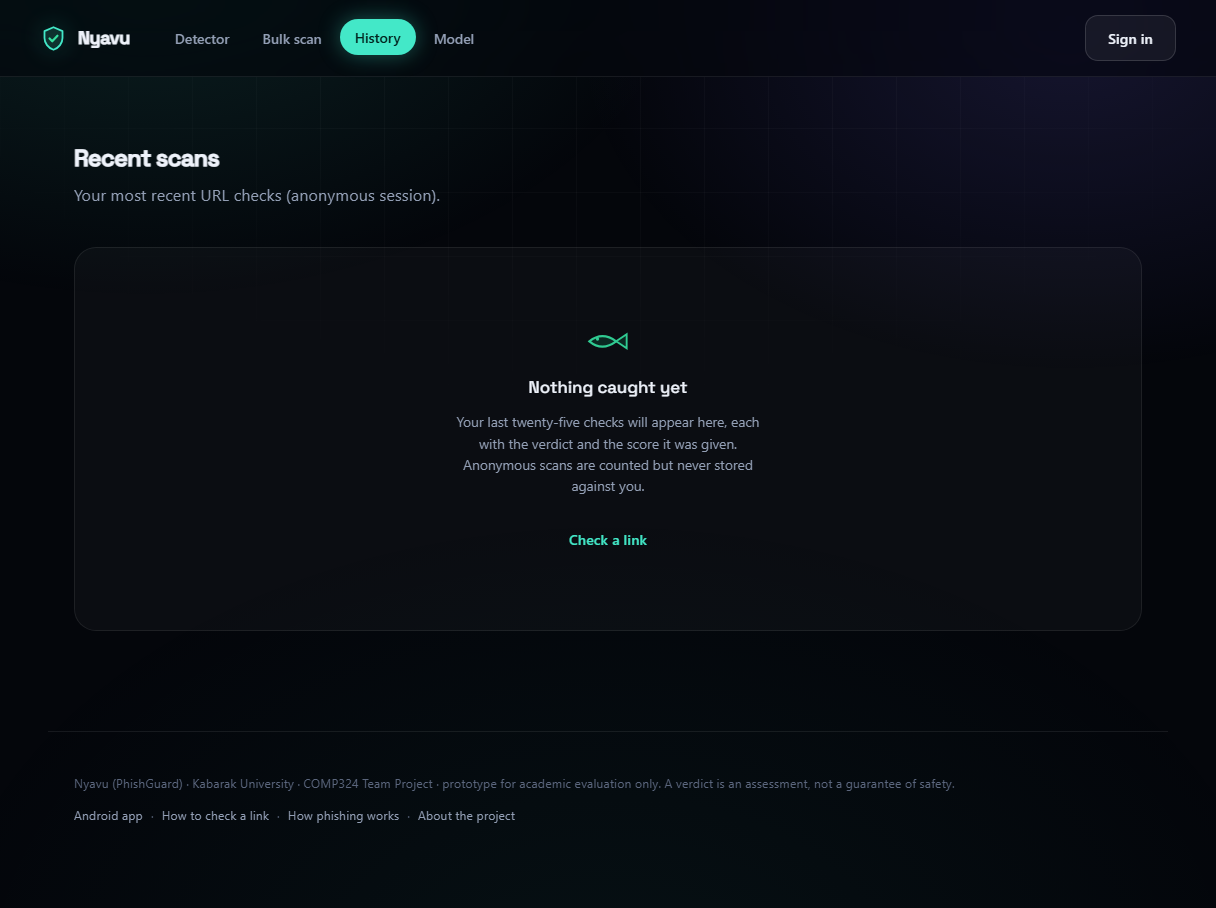
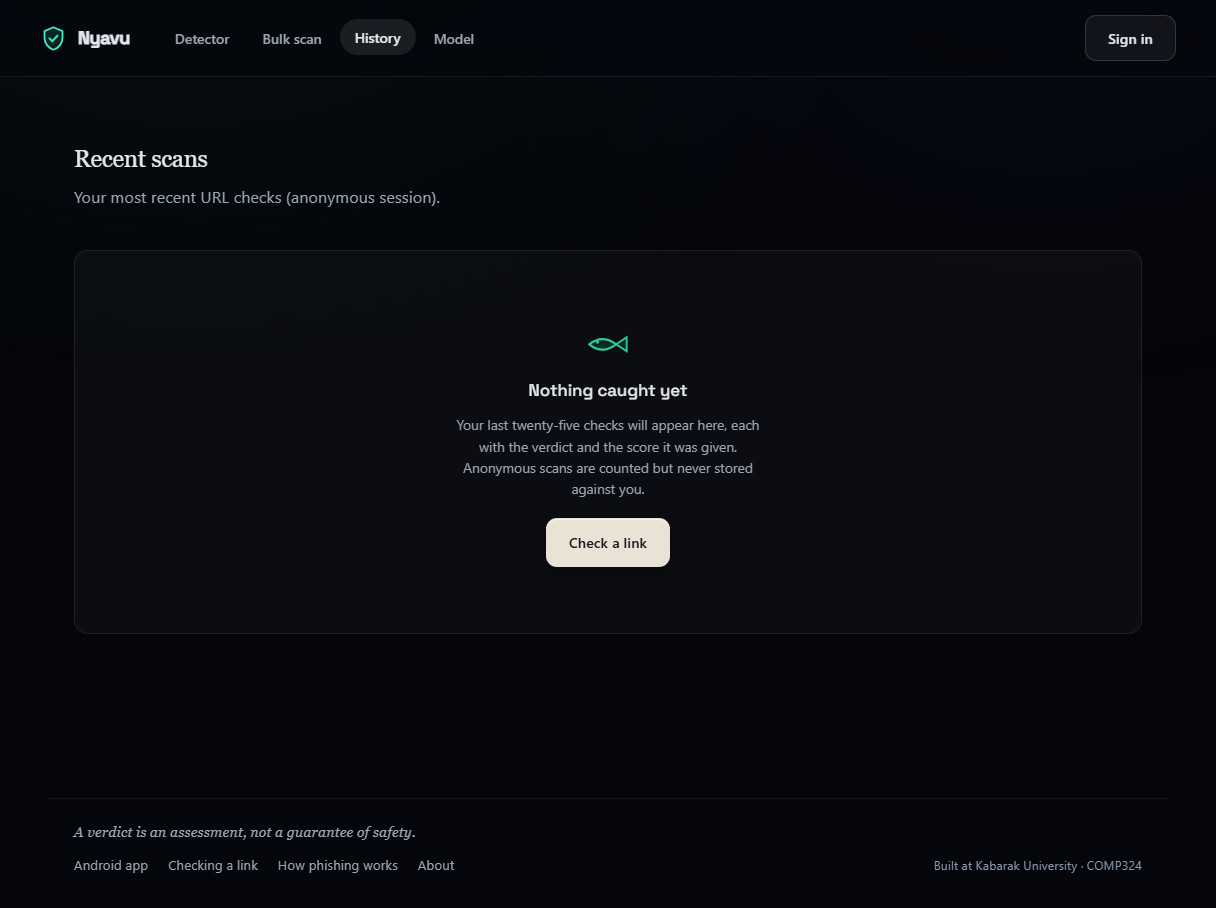
The scene's URL, the model view, and figures set as figures
- the address above the scene was the last element still in the mono; it uses the body
  face now
- the hero's folio said 01, which implied a sequence that does not exist next to steps
  that also start at 01. It is a note, and now says so
- the model view is in the same voice as the page: the summary strip is a rule-bounded
  list instead of a boxed bar, the F1 bars are bone rather than mint, table headings are
  sentence case, and the section labels lost their mono capitals
- table figures use lining tabular numbers; the serif keeps them only where it earns its
  keep, which is the big counts on the home page

diff --git a/app/static/styles.css b/app/static/styles.css
@@ -5056,3 +5056,178 @@ code, kbd, samp {
 }
 
 .input-row .btn.icon:hover { background: rgba(10, 18, 25, .11) !important; }
+
+/* the address above the scene was the last thing still set in the mono */
+.verdict-url {
+  font-family: var(--font-body) !important;
+  font-size: 0.95rem !important;
+  letter-spacing: 0 !important;
+  color: var(--muted) !important;
+}
+
+.note-label {
+  display: block;
+  margin-bottom: 10px;
+  font-family: var(--font-serif);
+  font-style: italic;
+  font-size: 0.82rem;
+  letter-spacing: 0;
+  color: var(--faint);
+}
+
+/* section labels inside the verdict follow the page, not the old mono system */
+.result .block-title,
+.result .meta-row b,
+.badge {
+  font-family: var(--font-body) !important;
+}
+
+/* =====================================================================
+   The model and history views in the same voice as the page
+
+   They were built before the type and the colour changed: boxed strips, mint bars,
+   upper-case mono table heads. Now they are tables and figures, set plainly.
+   ===================================================================== */
+
+/* the summary strip is a definition list, not a bar chart of boxes */
+.model-strip,
+.summary-strip {
+  display: flex;
+  flex-wrap: wrap;
+  gap: 12px 46px;
+  padding: 0 0 18px;
+  background: none !important;
+  border: 0 !important;
+  border-bottom: 1px solid rgba(255, 255, 255, .08) !important;
+  border-radius: 0 !important;
+}
+
+/* table headings: words, not telemetry */
+.table thead th,
+.table th {
+  font-family: var(--font-body) !important;
+  font-size: 0.76rem !important;
+  font-weight: 600 !important;
+  letter-spacing: 0.02em !important;
+  text-transform: none !important;
+  color: var(--muted) !important;
+  border-bottom: 1px solid rgba(255, 255, 255, .08) !important;
+}
+
+.table td {
+  font-family: var(--font-body) !important;
+  font-size: 0.86rem;
+  color: var(--text);
+}
+
+/* figures in the serif, everywhere they are quantities */
+.bar-val,
+.table td:nth-child(n+2),
+.verdict-url + * strong {
+  font-family: var(--font-serif) !important;
+  font-variant-numeric: tabular-nums;
+}
+
+/* the F1 bars: bone, not mint, and no card around them */
+.bars {
+  background: none !important;
+  border: 0 !important;
+  border-radius: 0 !important;
+  padding: 0 !important;
+  box-shadow: none !important;
+}
+
+.bar {
+  background: rgba(255, 255, 255, .06) !important;
+  border-radius: 3px !important;
+  height: 6px !important;
+}
+
+.bar i,
+.bar-best .bar i {
+  background: #CFC7B6 !important;
+  border-radius: 3px !important;
+}
+
+.bar-row { padding: 6px 0 !important; }
+.bar-name { font-family: var(--font-body) !important; font-size: 0.86rem !important; }
+
+/* the section labels inside these views */
+.panel .block-title,
+.view .block-title {
+  font-family: var(--font-body) !important;
+  font-size: 0.72rem !important;
+  letter-spacing: 0.1em !important;
+  color: var(--muted) !important;
+}
+
+/* the summary strip: whichever class it carries, it is a rule-bounded list */
+#model .panel > div:first-child,
+#model .panel > div:first-child > div {
+  background: none !important;
+  border: 0 !important;
+  border-radius: 0 !important;
+  box-shadow: none !important;
+}
+
+#model .panel > div:first-child {
+  display: flex !important;
+  flex-wrap: wrap;
+  gap: 10px 44px !important;
+  padding: 0 0 16px !important;
+  border-bottom: 1px solid rgba(255, 255, 255, .08) !important;
+}
+
+/* data tables want lining figures, not the serif's old style */
+#model .table td,
+#history .table td {
+  font-family: var(--font-body) !important;
+  font-variant-numeric: tabular-nums;
+  font-feature-settings: "tnum" 1;
+}
+
+#model .table td:first-child,
+#history .table td:nth-child(2) { font-weight: 500; }
+
+/* labels inside these views */
+#model .block-title,
+#history .block-title,
+#model .panel span,
+#model .panel dt {
+  font-family: var(--font-body) !important;
+  text-transform: none !important;
+  letter-spacing: 0.02em !important;
+  color: var(--muted) !important;
+  font-size: 0.78rem !important;
+}
+
+/* the summary strip is nested a level deeper than expected; flatten it at any depth */
+#model .panel > *:first-child,
+#model .panel > *:first-child > *,
+#model .panel > *:first-child > * > * {
+  background: none !important;
+  border: 0 !important;
+  border-radius: 0 !important;
+  box-shadow: none !important;
+}
+
+#model .panel > *:first-child {
+  display: flex !important;
+  flex-wrap: wrap;
+  gap: 10px 46px !important;
+  padding: 0 0 16px !important;
+  border-bottom: 1px solid rgba(255, 255, 255, .08) !important;
+}
+
+#model .panel > *:first-child > * {
+  display: grid !important;
+  gap: 3px;
+}
+
+#model .panel > *:first-child strong,
+#model .panel > *:first-child b {
+  font-family: var(--font-serif) !important;
+  font-weight: 400 !important;
+  font-size: 1.05rem;
+  color: var(--text) !important;
+}

diff --git a/app/static/index.html b/app/static/index.html
@@ -64,7 +64,7 @@
         <p class="lede">Paste any URL. Nyavu scores it against a curated corpus and tells you <em>why</em> it looks dangerous.</p>
       </div>
       <aside class="hero-note">
-        <span class="folio">01</span>
+        <span class="note-label">A note</span>
         <p>Nyavu reads the address, not the page. Nothing is fetched and nothing is
            stored about you, so there is nothing for a bad link to exploit.</p>
       </aside>
